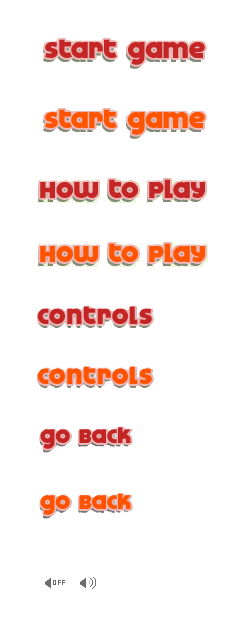
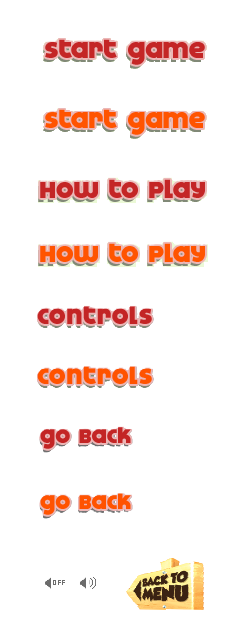
...

Changed region(s): [[0.5164, 0.8696, 0.8607, 0.9627]]

diff --git a/src/DesignPatterns/States/GameState/InGameState.cpp b/src/DesignPatterns/States/GameState/InGameState.cpp
@@ -5,8 +5,8 @@
 #include "Button.h"
 
 //--------------------------------------------------
-InGameState::InGameState(GameController& controller ,Button& button) : 
-			m_level(*this), m_player(m_level), m_soundButton(button), m_controller(controller), m_isPause(false)
+InGameState::InGameState(GameController& controller, GameOverState& gameOver,Button& button) :
+			m_level(*this), m_player(m_level), m_soundButton(button), m_controller(controller), m_isPause(false), m_gameOver(gameOver)
 {
 	m_background.setTexture(&ResourceManager::instance().getTexture("background"));
 	m_background.setSize({float(WIDTH*3), float(HEIGHT*3)});
@@ -50,9 +50,13 @@ void InGameState::handleEvent(sf::Event& event, sf::RenderWindow& window)// chan
 void InGameState::update(sf::Time time)
 {
 	if (m_isPause) return;
+	
 	m_player.move(time);
 	m_level.updateLevel(time, m_player);
-	//if (m_player.getHearts() == 0 ||)      <-------- here we will switch state to "GameOverState" PLAYER IS DEAD
+	
+	if (m_player.getHearts() == 0) {
+		m_controller.changeState(m_gameOver);
+	}
 		
 }
 
@@ -103,7 +107,7 @@ void InGameState::readNewLevel()
 	if (std::getline(m_playlist, levelName)) {
 		m_level.readLevelMap(levelName, m_player);
 	}
-	else {                // <--------just for now, here we will ALSO switch state to "GameOverState" NO MORE LEVEL TO READ
-		m_controller.close();
+	else {               
+		m_controller.changeState(m_gameOver);
 	}
 }

diff --git a/src/DesignPatterns/States/GameState/GameOverState.cpp b/src/DesignPatterns/States/GameState/GameOverState.cpp
@@ -1,0 +1,29 @@
+#include "DesignPatterns/States/GameState/GameOverState.h"
+#include "GameController.h"
+#include "DesignPatterns/States/GameState/MenuState.h"
+#include "DesignPatterns/Command/SwitchScreenCommand.h"
+
+GameOverState::GameOverState(GameController& controller, GameState& state): 
+	m_button(std::make_pair(sf::IntRect(2,2,155, 113), sf::IntRect(2, 2, 155, 113)), 
+		std::make_unique<SwitchScreenCommand>(controller, state), {311.f,222.f}) {}
+
+void GameOverState::handleEvent(sf::Event& event, sf::RenderWindow& window)
+{
+	if (event.type == sf::Event::MouseButtonReleased)
+	{
+		sf::Vector2f pos = window.mapPixelToCoords({ event.mouseButton.x,event.mouseButton.y });
+		m_button.handleClick(pos);
+	}
+
+	else if (event.type == sf::Event::MouseMoved)
+	{
+		sf::Vector2f pos = window.mapPixelToCoords({ event.mouseMove.x,event.mouseMove.y });
+		m_button.markButton(pos);
+	}
+}
+
+void GameOverState::render(sf::RenderWindow& window)
+{
+
+	m_button.draw(window);
+}

diff --git a/src/GameController.cpp b/src/GameController.cpp
@@ -7,9 +7,12 @@ GameController::GameController(): m_soundButton(std::make_pair(sf::IntRect(79, 5
 												sf::IntRect(44, 576, 21, 13)),
 												std::make_unique<ControlSoundCommand>(*this),
 												sf::Vector2f{ 1150.f, 70.f }), 
-								  m_menuState(*this, m_inGameState, m_helpState, m_soundButton), m_window(sf::VideoMode{WIDTH,HEIGHT}, "PAPA LOUIE: WHEN PIZZAS ATTACK"),
-								  m_inGameState(*this, m_soundButton),
-								  m_helpState(*this, m_menuState)
+								  m_menuState(*this, m_inGameState, m_helpState, m_soundButton),
+								  m_window(sf::VideoMode{WIDTH,HEIGHT}, "PAPA LOUIE: WHEN PIZZAS ATTACK"),
+								  m_inGameState(*this, m_gameOver, m_soundButton),
+								  m_helpState(*this, m_menuState),
+								  m_gameOver(*this, m_menuState)
+								
 {
 	m_state = &m_menuState;
 	m_window.setFramerateLimit(60);

diff --git a/include/DesignPatterns/States/GameState/GameOverState.h b/include/DesignPatterns/States/GameState/GameOverState.h
@@ -2,18 +2,16 @@
 #include "DesignPatterns/States/GameState/GameState.h"
 #include "Button.h"
 
-class MenuState;
 class GameController;
+class MenuState;
 
-class GameOverState :public GameOverState 
+class GameOverState :public GameState 
 {
 public:
-	GameOverState(GameController& controller, GameState& state)
+	GameOverState(GameController& controller, GameState& state);
 	virtual void handleEvent(sf::Event&, sf::RenderWindow& window)override;
-	virtual void update(sf::Time)override;
+	virtual void update(sf::Time)override {}
 	virtual void render(sf::RenderWindow& window)override;
 private:
-	Button& m_button;
-
-
+	Button m_button;
 };

diff --git a/src/DesignPatterns/Singletons/ResourceManager.cpp b/src/DesignPatterns/Singletons/ResourceManager.cpp
@@ -134,7 +134,7 @@ void ResourceManager::initTextures()
     std::array<std::string, NUM_OF_TEXTURES> textureNames =
     { "playerSpriteSheet", "background", "frameBackground", "menuBackground",
        "mainGround", "ground", "basicEnemiesSheet","PizzaEnemySheet",  "buttons", "controls", "cage", "friend", "loading",
-        "cheese","salt", "explosionSpriteSheet","heart","coin", "papaLoueiHead","pizza","fatPerson","ladder", "pause"};
+        "cheese","salt", "explosionSpriteSheet","heart","coin", "papaLoueiHead","pizza","fatPerson","ladder", "pause", "menuButton"};
 
     for (int i = 0; i < NUM_OF_TEXTURES; ++i)
     {

diff --git a/include/DesignPatterns/States/GameState/InGameState.h b/include/DesignPatterns/States/GameState/InGameState.h
@@ -9,11 +9,12 @@
 
 class Button;
 class GameController;
+class GameOverState;
 
 class InGameState : public GameState
 {
 public:
-	InGameState(GameController&, Button&);
+	InGameState(GameController&, GameOverState&, Button&);
 	virtual void handleEvent(sf::Event&, sf::RenderWindow& window) override;
 	virtual void update(sf::Time) override;
 	virtual void render(sf::RenderWindow&) override;
@@ -30,6 +31,7 @@ private:
 	Player m_player;
 	Button& m_soundButton;
 	GameController& m_controller;
+	GameOverState& m_gameOver;
 	bool m_isPause;
 };
 

diff --git a/include/GameController.h b/include/GameController.h
@@ -4,6 +4,8 @@
 #include "DesignPatterns/States/GameState/InGameState.h"
 #include "DesignPatterns/States/GameState/MenuState.h"
 #include "DesignPatterns/States/GameState/HelpState.h"
+#include "DesignPatterns/States/GameState/GameOverState.h"
+
 
 class GameState;
 
@@ -24,6 +26,6 @@ private:
 	InGameState m_inGameState;
 	MenuState m_menuState;
 	HelpState m_helpState;
-	
+	GameOverState m_gameOver;
 	Button m_soundButton;
 };

diff --git a/include/Macros.h b/include/Macros.h
@@ -4,7 +4,7 @@
 
 const int WIDTH = 1400;
 const int HEIGHT = 800;
-const int NUM_OF_TEXTURES = 23;
+const int NUM_OF_TEXTURES = 24;
 const int NUM_OF_SOUNDS = 7;
 const int MAX_LIVES = 5;
 const float MAX_CAGE_HEIGHT = 230.f;
